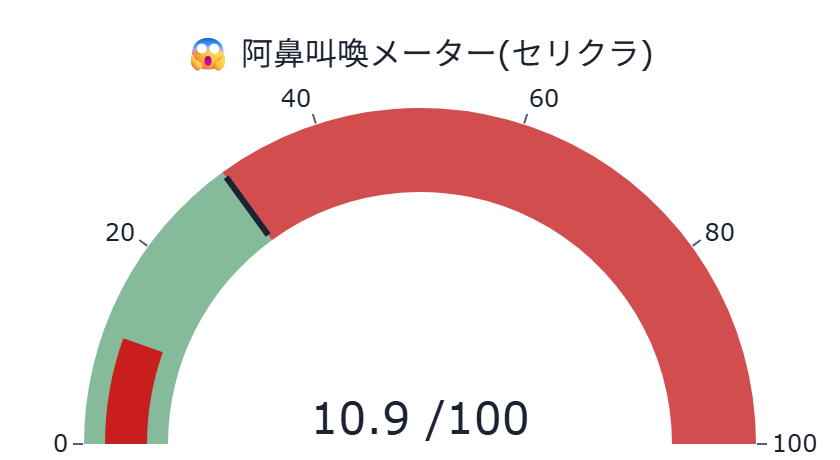
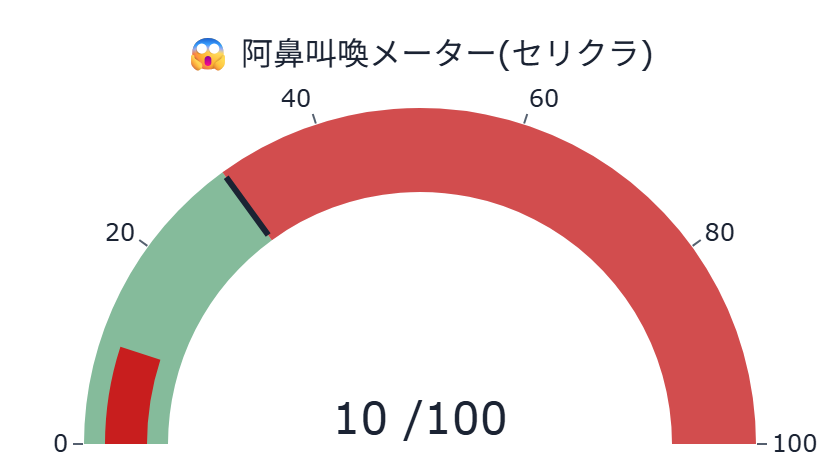
auto: refresh static dashboard (2026-08-25 05:05:30 JST)

Changed region(s): [[0.3714, 0.8522, 0.65, 0.9739], [0.1238, 0.7304, 0.2167, 0.7913]]

diff --git a/docs/index.html b/docs/index.html
@@ -86,10 +86,10 @@
         <span class="price">50,930円</span>
         <span class="chg" style="color:#8B94A3">—</span>
       </div>
-      <p class="caption">更新時刻: 2026-08-25T04:55:33（データは1分間隔で自動生成され、このページも
+      <p class="caption">更新時刻: 2026-08-25T05:04:20（データは1分間隔で自動生成され、このページも
       60秒毎に自動再読み込みされます）</p>
       
-      <p id='visit-count-badge' class='caption'>👀 累計閲覧数: 455</p>
+      <p id='visit-count-badge' class='caption' style='display:none'></p>
 
       <h2>🔥😱 2大メーター・ボラレジーム</h2>
       <div class="grid3">
@@ -112,14 +112,14 @@
       <h2>🎯 シグナル発火状況（9指標）</h2>
       <p class="caption">掲示板の投稿を集計した9つの指標が、統計的なしきい値を超えたかどうかを示す一覧です。
       「発火」は売買のシグナルではなく、「統計的に見て平常時より偏りが大きい状態」を示す記述的な警告ラベルです。</p>
-      <div class='info-box'>📌 前回の取引日(2026-08-24)からの状態変化: 「そう思う大量票」警戒→OK、「ネームド集中」OK→発火、「他銘柄混入率」警戒→発火、「阿鼻叫喚(セリクラ)」警戒→OK、「話題枯れ」OK→発火</div>
+      <div class='info-box'>📌 前回の取引日(2026-08-24)からの状態変化: 「そう思う大量票」警戒→OK、「ネームド集中」OK→発火、「他銘柄混入率」警戒→発火、「暴落煽り語彙」警戒→OK、「阿鼻叫喚(セリクラ)」警戒→OK、「話題枯れ」OK→発火</div>
       <div class="panel"><div class='signal-row'><div class='signal-name'>灼熱メーター(過熱)<div class='signal-desc'>掲示板全体の強気/弱気の偏りと投稿の勢いから算出した「過熱度」の合成指標。</div></div><div class='signal-note'>過熱スコア7.1 (閾値36)</div><div><span style='display:inline-block;border-radius:999px;padding:2px 10px;font-size:.82em;font-weight:600;color:#fff;background:#15803D;white-space:nowrap'>OK (現在値7.10 / 閾値&gt;36)</span></div></div>
 <div class='signal-row'><div class='signal-name'>そう思う大量票<div class='signal-desc'>Yahoo!掲示板の「そう思う」共感ボタンが1投稿に集中して大量に押されているか。</div></div><div class='signal-note'>そう思う最大27票 (95超=過熱)</div><div><span style='display:inline-block;border-radius:999px;padding:2px 10px;font-size:.82em;font-weight:600;color:#fff;background:#15803D;white-space:nowrap'>OK (現在値27 / 閾値&gt;=95)</span></div></div>
 <div class='signal-row'><div class='signal-name'>イナゴ語彙(euphoria)<div class='signal-desc'>「爆上げ」「握力」等、熱狂・便乗を示す語彙が投稿にどれだけ含まれるか。</div></div><div class='signal-note'>euphoria指数1.5/100投稿</div><div><span style='display:inline-block;border-radius:999px;padding:2px 10px;font-size:.82em;font-weight:600;color:#fff;background:#15803D;white-space:nowrap'>OK (現在値1.50 / 閾値&gt;=5.5/100投稿)</span></div></div>
 <div class='signal-row'><div class='signal-name'>ネームド集中<div class='signal-desc'>特定の常連投稿者(ハッシュ化ID)に投稿が偏っていないか(少数の声が目立ちすぎていないか)。</div></div><div class='signal-note'>上位5人シェア12%</div><div><span style='display:inline-block;border-radius:999px;padding:2px 10px;font-size:.82em;font-weight:600;color:#fff;background:#C81E1E;white-space:nowrap'>発火 (現在値0.12 / 閾値&gt;=0.1)</span></div></div>
 <div class='signal-row'><div class='signal-name'>他銘柄混入率<div class='signal-desc'>本銘柄の掲示板で他の銘柄コードへの言及がどれだけ多いか(関心が他へ移りつつあるサイン)。</div></div><div class='signal-note'>他銘柄言及14% (関心離散のサイン)</div><div><span style='display:inline-block;border-radius:999px;padding:2px 10px;font-size:.82em;font-weight:600;color:#fff;background:#C81E1E;white-space:nowrap'>発火 (現在値0.14 / 閾値&gt;=0.11)</span></div></div>
-<div class='signal-row'><div class='signal-name'>暴落煽り語彙<div class='signal-desc'>「暴落」「終わった」等、悲観・煽りを示す語彙が投稿にどれだけ含まれるか。</div></div><div class='signal-note'>煽り指数4.0/100投稿</div><div><span style='display:inline-block;border-radius:999px;padding:2px 10px;font-size:.82em;font-weight:600;color:#fff;background:#C2570B;white-space:nowrap'>警戒 (現在値4.00 / 閾値&gt;=5.0/100投稿)</span></div></div>
-<div class='signal-row'><div class='signal-name'>阿鼻叫喚(セリクラ)<div class='signal-desc'>株価が安値圏にある中で悲観語彙が急増しているか(セリングクライマックスの兆候)。</div></div><div class='signal-note'>阿鼻叫喚スコア10.9 安値圏外</div><div><span style='display:inline-block;border-radius:999px;padding:2px 10px;font-size:.82em;font-weight:600;color:#fff;background:#15803D;white-space:nowrap'>OK (現在値10.90 / 閾値&gt;30)</span></div></div>
+<div class='signal-row'><div class='signal-name'>暴落煽り語彙<div class='signal-desc'>「暴落」「終わった」等、悲観・煽りを示す語彙が投稿にどれだけ含まれるか。</div></div><div class='signal-note'>煽り指数3.9/100投稿</div><div><span style='display:inline-block;border-radius:999px;padding:2px 10px;font-size:.82em;font-weight:600;color:#fff;background:#15803D;white-space:nowrap'>OK (現在値3.90 / 閾値&gt;=5.0/100投稿)</span></div></div>
+<div class='signal-row'><div class='signal-name'>阿鼻叫喚(セリクラ)<div class='signal-desc'>株価が安値圏にある中で悲観語彙が急増しているか(セリングクライマックスの兆候)。</div></div><div class='signal-note'>阿鼻叫喚スコア10.0 安値圏外</div><div><span style='display:inline-block;border-radius:999px;padding:2px 10px;font-size:.82em;font-weight:600;color:#fff;background:#15803D;white-space:nowrap'>OK (現在値10.00 / 閾値&gt;30)</span></div></div>
 <div class='signal-row'><div class='signal-name'>話題枯れ<div class='signal-desc'>過去の平均と比べて本日の投稿数が著しく少ないか(閑散・関心低下のサイン)。</div></div><div class='signal-note'>投稿数z=-1.29 (負=閑散)</div><div><span style='display:inline-block;border-radius:999px;padding:2px 10px;font-size:.82em;font-weight:600;color:#fff;background:#C81E1E;white-space:nowrap'>発火 (現在値-1.29 / 閾値z&lt;-1)</span></div></div>
 <div class='signal-row'><div class='signal-name'>投稿サージ<div class='signal-desc'>過去の平均と比べて本日の投稿数が著しく多いか(急な注目集中のサイン)。</div></div><div class='signal-note'>投稿数z=-1.29 (量→ボラ予測が文献の主結果)</div><div><span style='display:inline-block;border-radius:999px;padding:2px 10px;font-size:.82em;font-weight:600;color:#fff;background:#15803D;white-space:nowrap'>OK (現在値-1.29 / 閾値z&gt;2)</span></div></div></div>
       <p class="caption">※研究・エンタメ用途・未検証。売買シグナルではありません。
@@ -150,22 +150,22 @@
       
 
       <h2>🤖 AI考察</h2>
-      <div class='metric-row'><div class='metric-card'><div class='metric-label'>株価</div><div class='metric-value'>50,930円</div><div class='metric-delta'>+0円</div></div><div class='metric-card'><div class='metric-label'>強気比率</div><div class='metric-value'>35.1%</div><div class='metric-delta'>-0.1pt</div></div><div class='metric-card'><div class='metric-label'>弱気比率</div><div class='metric-value'>55.4%</div><div class='metric-delta'>-0.1pt</div></div></div><p class='caption'>前回集計(2026-08-25T04:34:20)との比較</p>
-      <div class='ai-box'>本レポートは、掲示板の集計センチメントデータに基づく分析であり、投資助言ではありません。<br>
+      <div class='metric-row'><div class='metric-card'><div class='metric-label'>株価</div><div class='metric-value'>50,930円</div><div class='metric-delta'>+0円</div></div><div class='metric-card'><div class='metric-label'>強気比率</div><div class='metric-value'>35.1%</div><div class='metric-delta'>+0.0pt</div></div><div class='metric-card'><div class='metric-label'>弱気比率</div><div class='metric-value'>55.4%</div><div class='metric-delta'>+0.0pt</div></div></div><p class='caption'>前回集計(2026-08-25T04:55:33)との比較</p>
+      <div class='ai-box'>本件は掲示板の集計センチメントデータに基づく分析であり、投資助言ではありません。<br>
 <br>
-キオクシアホールディングス（285A）について、寄り付き前の現時点における掲示板のセンチメント状況をまとめます。前営業日の終値は50,930.0円となっており、直近の日次推移を見ると、8月17日に高値を付けた後、強気・弱気比率が交互に入れ替わりながら推移している状況です。<br>
+キオクシアホールディングス（285A）について、寄り付き前の集計データを基に現状を整理します。前営業日の終値は50,930.0円となっており、直近の日次推移を見ると、8月17日に61,840円まで上昇した後の調整局面を経て、現在は5万円前後で推移している状況です。<br>
 <br>
-掲示板のセンチメントについては、現在「強気比率：35.1%」「弱気比率：55.4%」となっており、弱気の意見が優勢な傾向にあります。前回の集計（約20分前）と比較すると、価格や強気・弱気比率はほぼ横ばいですが、投稿数がわずかに増加しており、一定の関心は維持されています。<br>
+掲示板のセンチメントについては、強気比率が35.1%に対し弱気比率が55.4%となっており、弱気な見方が優勢な傾向にあります。総悲観度スコアは10.0と高い水準を示していますが、過熱度スコアは7.1と低く、掲示板上での過度な熱狂は見られません。前回集計（約8分前）からの変化を確認すると、価格・強気比率・弱気比率に変動はなく、投稿数もわずか8件の増加にとどまっており、短時間での急激な勢いの変化は限定的です。<br>
 <br>
-統計的なシグナル状況を確認すると、「ネームド集中」および「他銘柄混入率」において「発火」が確認されており、特定の層による意見の集中や、関心が他の銘柄へ分散している可能性が示唆されています。また、「話題枯れ」についても「発火」しており、投稿数の推移から見て一定の閑散状態にあることが伺えます。一方で、過熱度スコア（7.1）や暴落煽り語彙などの指標は平常範囲内にとどまっています。前営業日からの変化としては、ネームド集中や他銘柄混入率が「警戒」から「発火」へと進展しており、掲示板内の構造的な偏りが強まっている様子が見て取れます。<br>
+シグナル発火状況については、統計的な偏りを示す指標において「ネームド集中」および「他銘柄混入率」が発火（しきい値超過）しています。これは特定のユーザーへの関心の偏りや、他の銘柄に関する話題が混在していることを示唆しており、純粋な当該銘柄への集中度が分散している可能性を内包しています。また、前回取引日からの変化として「ネームド集中」「他銘柄混入率」の発火、「話題枯れ（投稿数の減少）」への移行が見られ、掲示板内の関心の質や量に変化が生じています。<br>
 <br>
-ボラティリティのレジーム帯については、現在「calibrating（較正中）」となっており、現在の値動きの荒さを示す指標を確定させる過程にあります。また、取引時間外の動向として、PTSでは前日終値比-2.16%、米国ADR円換算では-1.82%と、いずれもマイナスの数値で推移していることが確認できます。<br>
+ボラティリティのレジーム帯は現在「calibrating（較正中）」となっており、現在の値動きの荒さを示す指標が確定するまでの過程にあります。なお、取引時間外の動向については、PTSで-2.16%、米国ADRで-1.71%と、前営業日の終値を基準に軟調な推移を見せています。<br>
 <br>
-総じて、掲示板上では弱気的な見方が多く、特定の層による発言の集中や関心の分散といった統計的な偏りが顕在化している状況です。</div><p class='caption'>生成時刻: 2026-08-25T04:55:33</p>
+総じて、掲示板上では弱気な意見が目立つ一方で、関心の分散や話題の減退といった統計的な特徴が見られる状況です。</div><p class='caption'>生成時刻: 2026-08-25T05:04:20</p>
 
       <hr style="border:none;border-top:1px solid var(--border);margin:2rem 0 1rem">
       <p class="caption">⚠ 本情報は掲示板投稿を統計的に集計したものであり、投資助言ではありません。個別の投稿内容は含まれていません。研究・エンタメ用途です。</p>
-      <footer>生成: generate_static_dashboard.py（2026-08-25T05:03:40） /
+      <footer>生成: generate_static_dashboard.py（2026-08-25T05:05:19） /
       画像バックエンド: plotly+kaleido</footer>
     </div>
     <script>(function(){var url="https://script.google.com/macros/s/AKfycbwgSSGQ2n56ohmIYKlNDA1Xe3D8hd3GJbD0U90L4DGtXdb8pqrPokNMHJWjvN1__7bE/exec";var KEY='bbs_visit_counted';var already=sessionStorage.getItem(KEY);var action=already?'read':'hit';var ctrl=(typeof AbortController!=='undefined')?new AbortController():null;var timer=ctrl?setTimeout(function(){ctrl.abort();},5000):null;fetch(url+'?action='+action,{signal:ctrl?ctrl.signal:undefined}).then(function(r){if(timer)clearTimeout(timer);return r.json();}).then(function(data){if(!already)sessionStorage.setItem(KEY,'1');if(data&&typeof data.count==='number'){var el=document.getElementById('visit-count-badge');if(el){el.textContent='\u{1F440} \u7d2f\u8a08\u95b2\u89a7\u6570: '+data.count.toLocaleString();el.style.display='';}}}).catch(function(e){if(timer)clearTimeout(timer);console.warn('visit counter fetch failed (fail-soft):',e);});})();</script></body></html>
